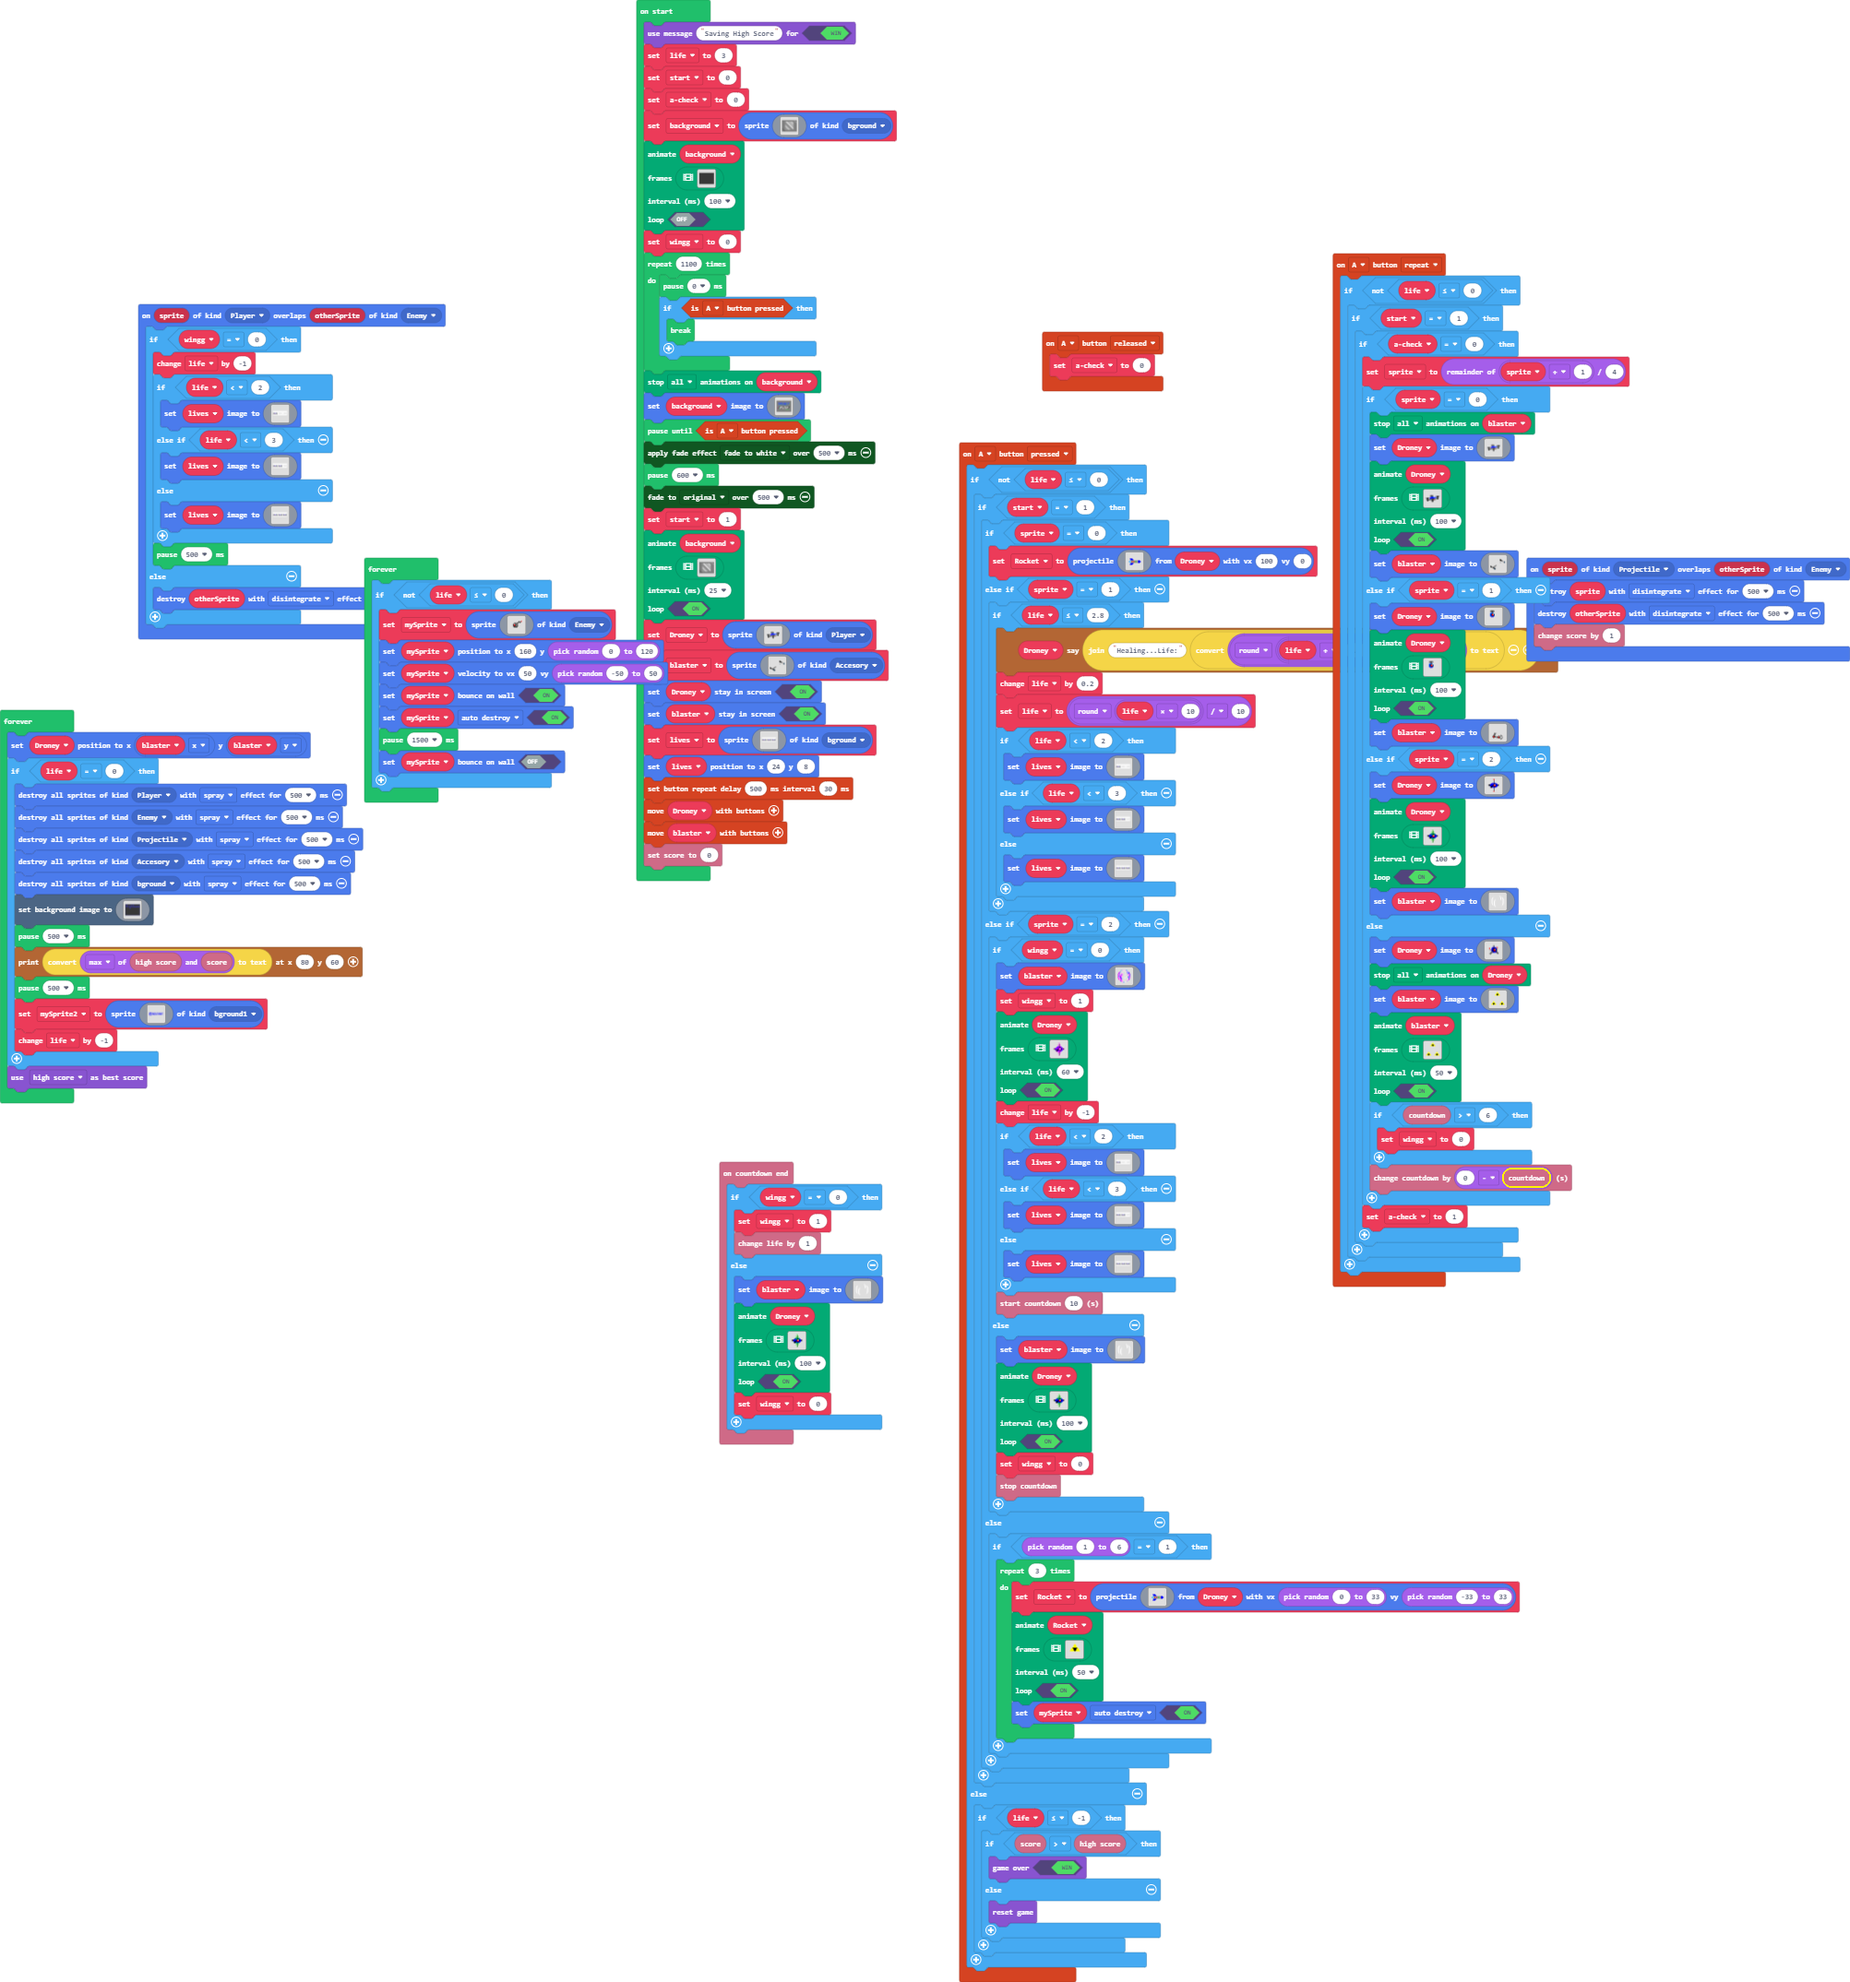
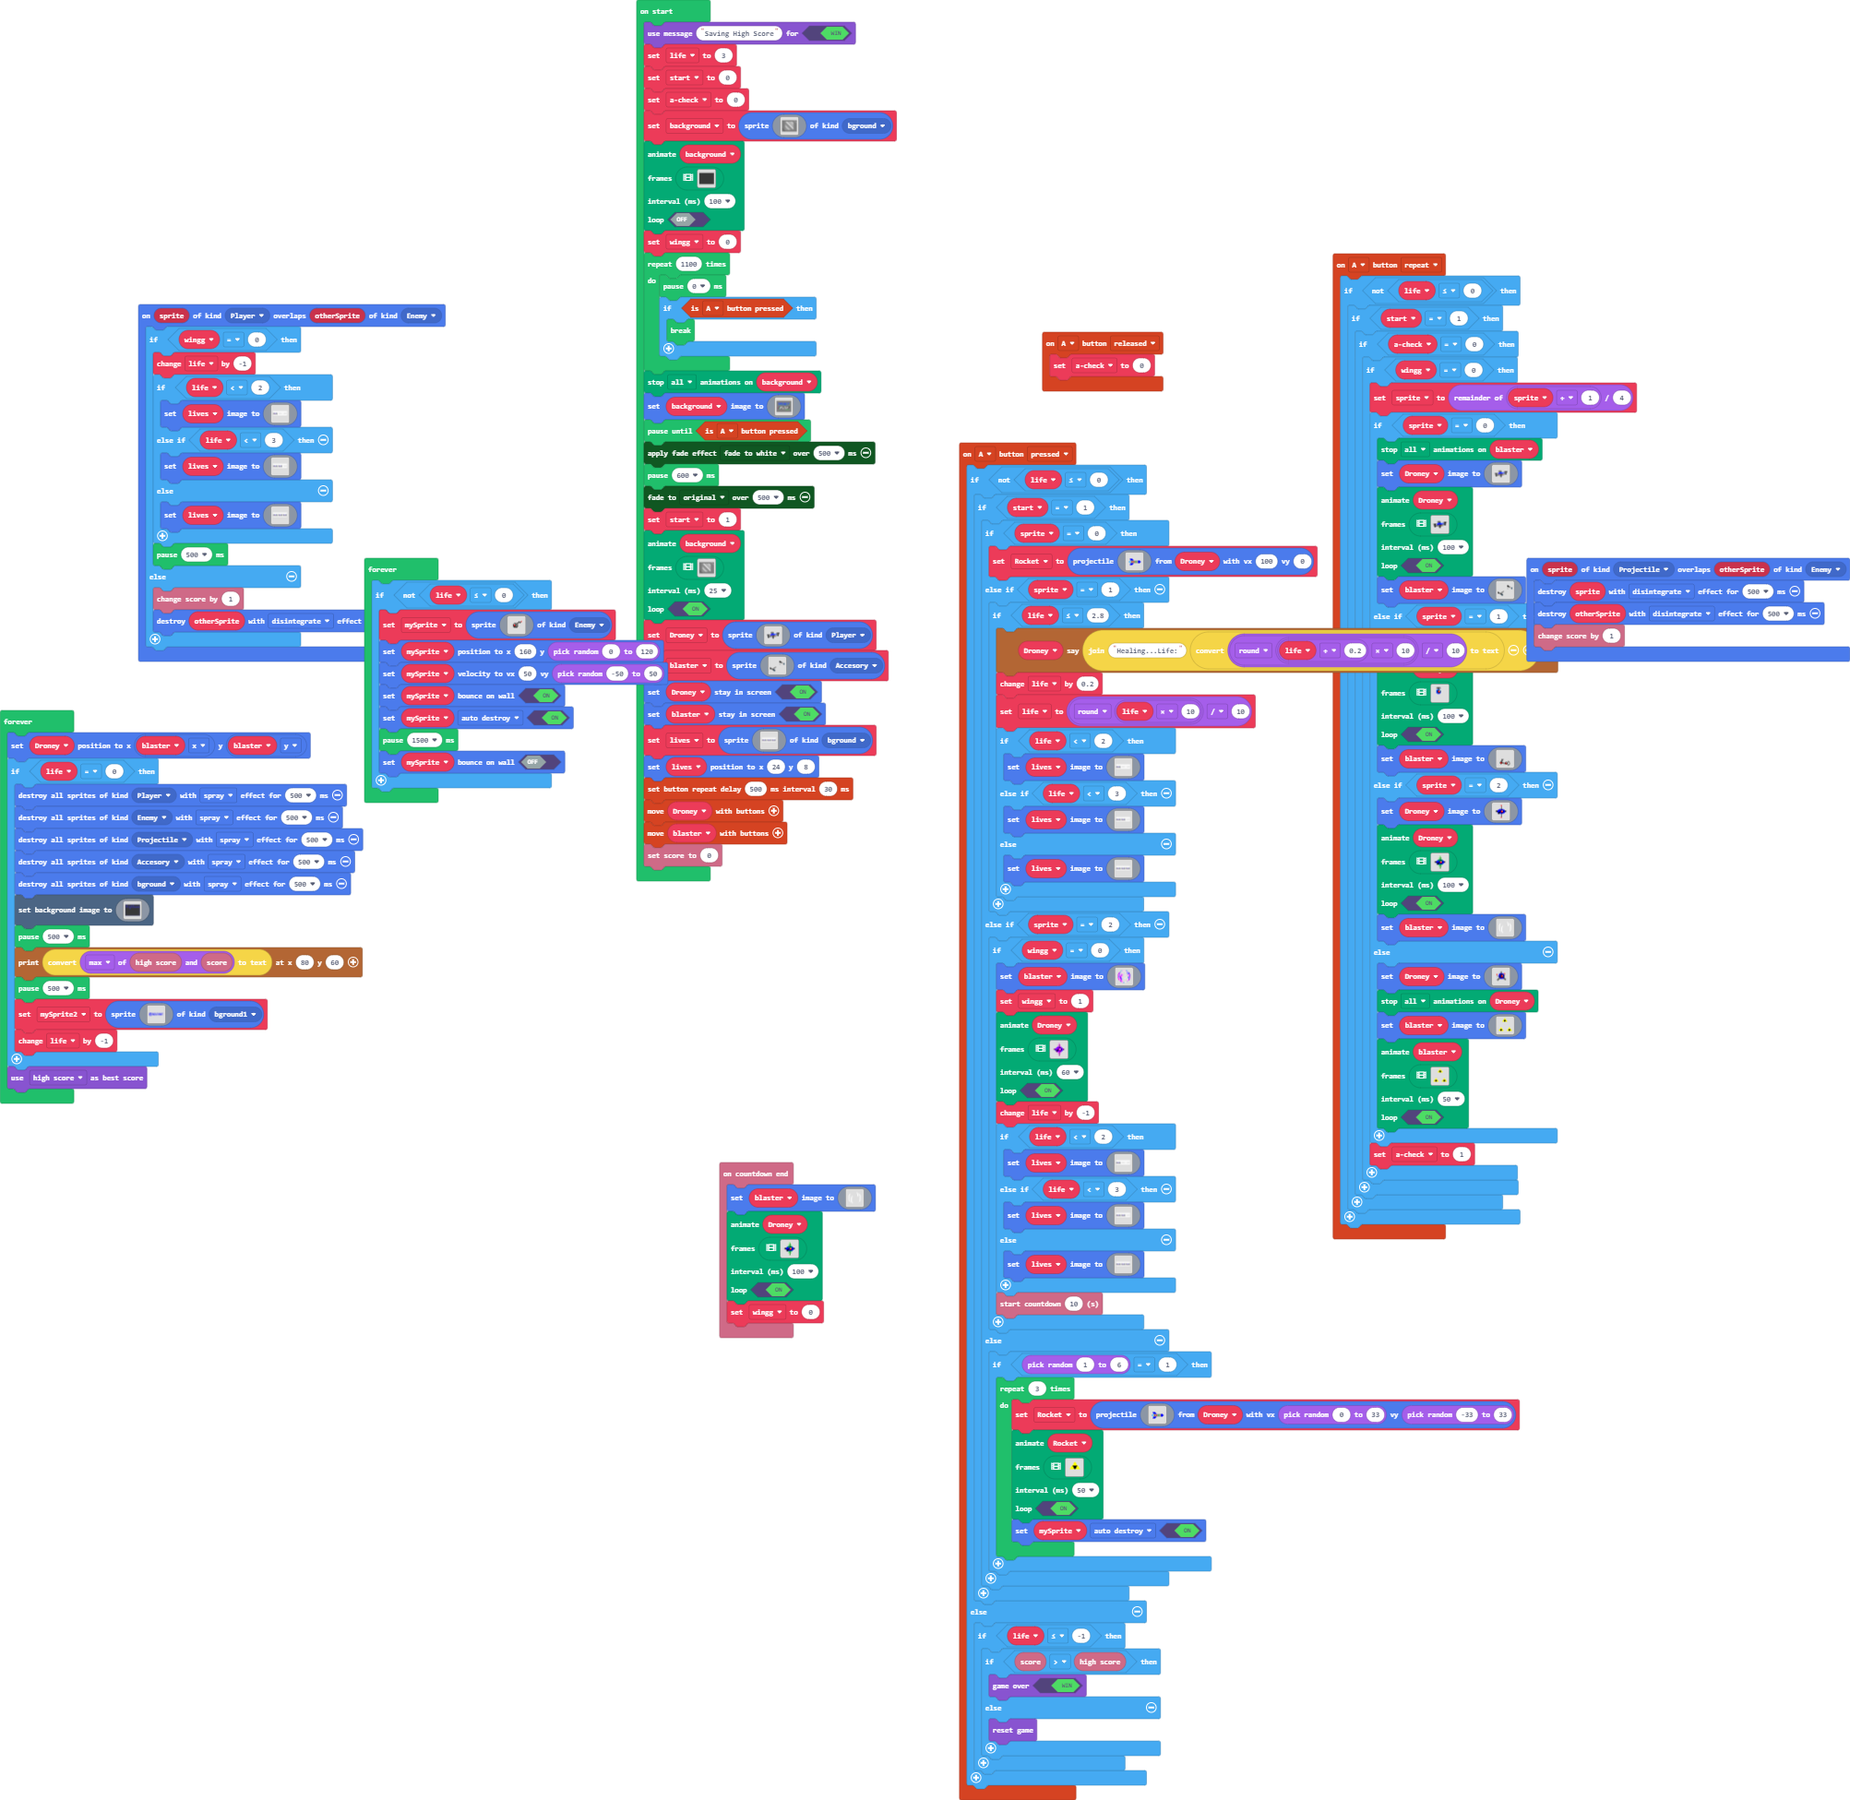
Update pxt.json, main.blocks, main.ts

Changed region(s): [[0.0, 0.0, 1.0, 1.0], [0.3711, 0.5843, 0.4948, 0.7688]]

diff --git a/main.ts b/main.ts
@@ -40,16 +40,6 @@ controller.A.onEvent(ControllerButtonEvent.Pressed, function () {
                         lives.setImage(assets.image`myImage5`)
                     }
                     info.startCountdown(10)
-                } else {
-                    blaster.setImage(assets.image`Wing`)
-                    animation.runImageAnimation(
-                    Droney,
-                    assets.animation`myAnim`,
-                    100,
-                    true
-                    )
-                    wingg = 0
-                    info.stopCountdown()
                 }
             } else {
                 if (randint(1, 6) == 1) {
@@ -77,19 +67,14 @@ controller.A.onEvent(ControllerButtonEvent.Pressed, function () {
     }
 })
 info.onCountdownEnd(function () {
-    if (wingg == 0) {
-        wingg = 1
-        info.changeLifeBy(1)
-    } else {
-        blaster.setImage(assets.image`Wing`)
-        animation.runImageAnimation(
-        Droney,
-        assets.animation`myAnim`,
-        100,
-        true
-        )
-        wingg = 0
-    }
+    blaster.setImage(assets.image`Wing`)
+    animation.runImageAnimation(
+    Droney,
+    assets.animation`myAnim`,
+    100,
+    true
+    )
+    wingg = 0
 })
 controller.A.onEvent(ControllerButtonEvent.Released, function () {
     acheck = 0
@@ -98,51 +83,49 @@ controller.A.onEvent(ControllerButtonEvent.Repeated, function () {
     if (!(life <= 0)) {
         if (start == 1) {
             if (acheck == 0) {
-                sprite = (sprite + 1) % 4
-                if (sprite == 0) {
-                    animation.stopAnimation(animation.AnimationTypes.All, blaster)
-                    Droney.setImage(assets.image`Droney`)
-                    animation.runImageAnimation(
-                    Droney,
-                    assets.animation`myAnim0`,
-                    100,
-                    true
-                    )
-                    blaster.setImage(assets.image`Blaster`)
-                } else if (sprite == 1) {
-                    Droney.setImage(assets.image`Dexen`)
-                    animation.runImageAnimation(
-                    Droney,
-                    assets.animation`myAnim1`,
-                    100,
-                    true
-                    )
-                    blaster.setImage(assets.image`Arm`)
-                } else if (sprite == 2) {
-                    Droney.setImage(assets.image`Mitron`)
-                    animation.runImageAnimation(
-                    Droney,
-                    assets.animation`myAnim`,
-                    100,
-                    true
-                    )
-                    blaster.setImage(assets.image`Wing`)
-                } else {
-                    Droney.setImage(assets.image`Sebex`)
-                    animation.stopAnimation(animation.AnimationTypes.All, Droney)
-                    blaster.setImage(assets.image`myImage3`)
-                    animation.runImageAnimation(
-                    blaster,
-                    assets.animation`myAnim3`,
-                    50,
-                    true
-                    )
-                    if (info.countdown() > 6) {
-                        wingg = 0
+                if (wingg == 0) {
+                    sprite = (sprite + 1) % 4
+                    if (sprite == 0) {
+                        animation.stopAnimation(animation.AnimationTypes.All, blaster)
+                        Droney.setImage(assets.image`Droney`)
+                        animation.runImageAnimation(
+                        Droney,
+                        assets.animation`myAnim0`,
+                        100,
+                        true
+                        )
+                        blaster.setImage(assets.image`Blaster`)
+                    } else if (sprite == 1) {
+                        Droney.setImage(assets.image`Dexen`)
+                        animation.runImageAnimation(
+                        Droney,
+                        assets.animation`myAnim1`,
+                        100,
+                        true
+                        )
+                        blaster.setImage(assets.image`Arm`)
+                    } else if (sprite == 2) {
+                        Droney.setImage(assets.image`Mitron`)
+                        animation.runImageAnimation(
+                        Droney,
+                        assets.animation`myAnim`,
+                        100,
+                        true
+                        )
+                        blaster.setImage(assets.image`Wing`)
+                    } else {
+                        Droney.setImage(assets.image`Sebex`)
+                        animation.stopAnimation(animation.AnimationTypes.All, Droney)
+                        blaster.setImage(assets.image`myImage3`)
+                        animation.runImageAnimation(
+                        blaster,
+                        assets.animation`myAnim3`,
+                        50,
+                        true
+                        )
                     }
-                    info.changeCountdownBy(0 - info.countdown())
+                    acheck = 1
                 }
-                acheck = 1
             }
         }
     }
@@ -164,6 +147,7 @@ sprites.onOverlap(SpriteKind.Player, SpriteKind.Enemy, function (sprite, otherSp
         }
         pause(500)
     } else {
+        info.changeScoreBy(1)
         sprites.destroy(otherSprite, effects.disintegrate, 200)
     }
 })
